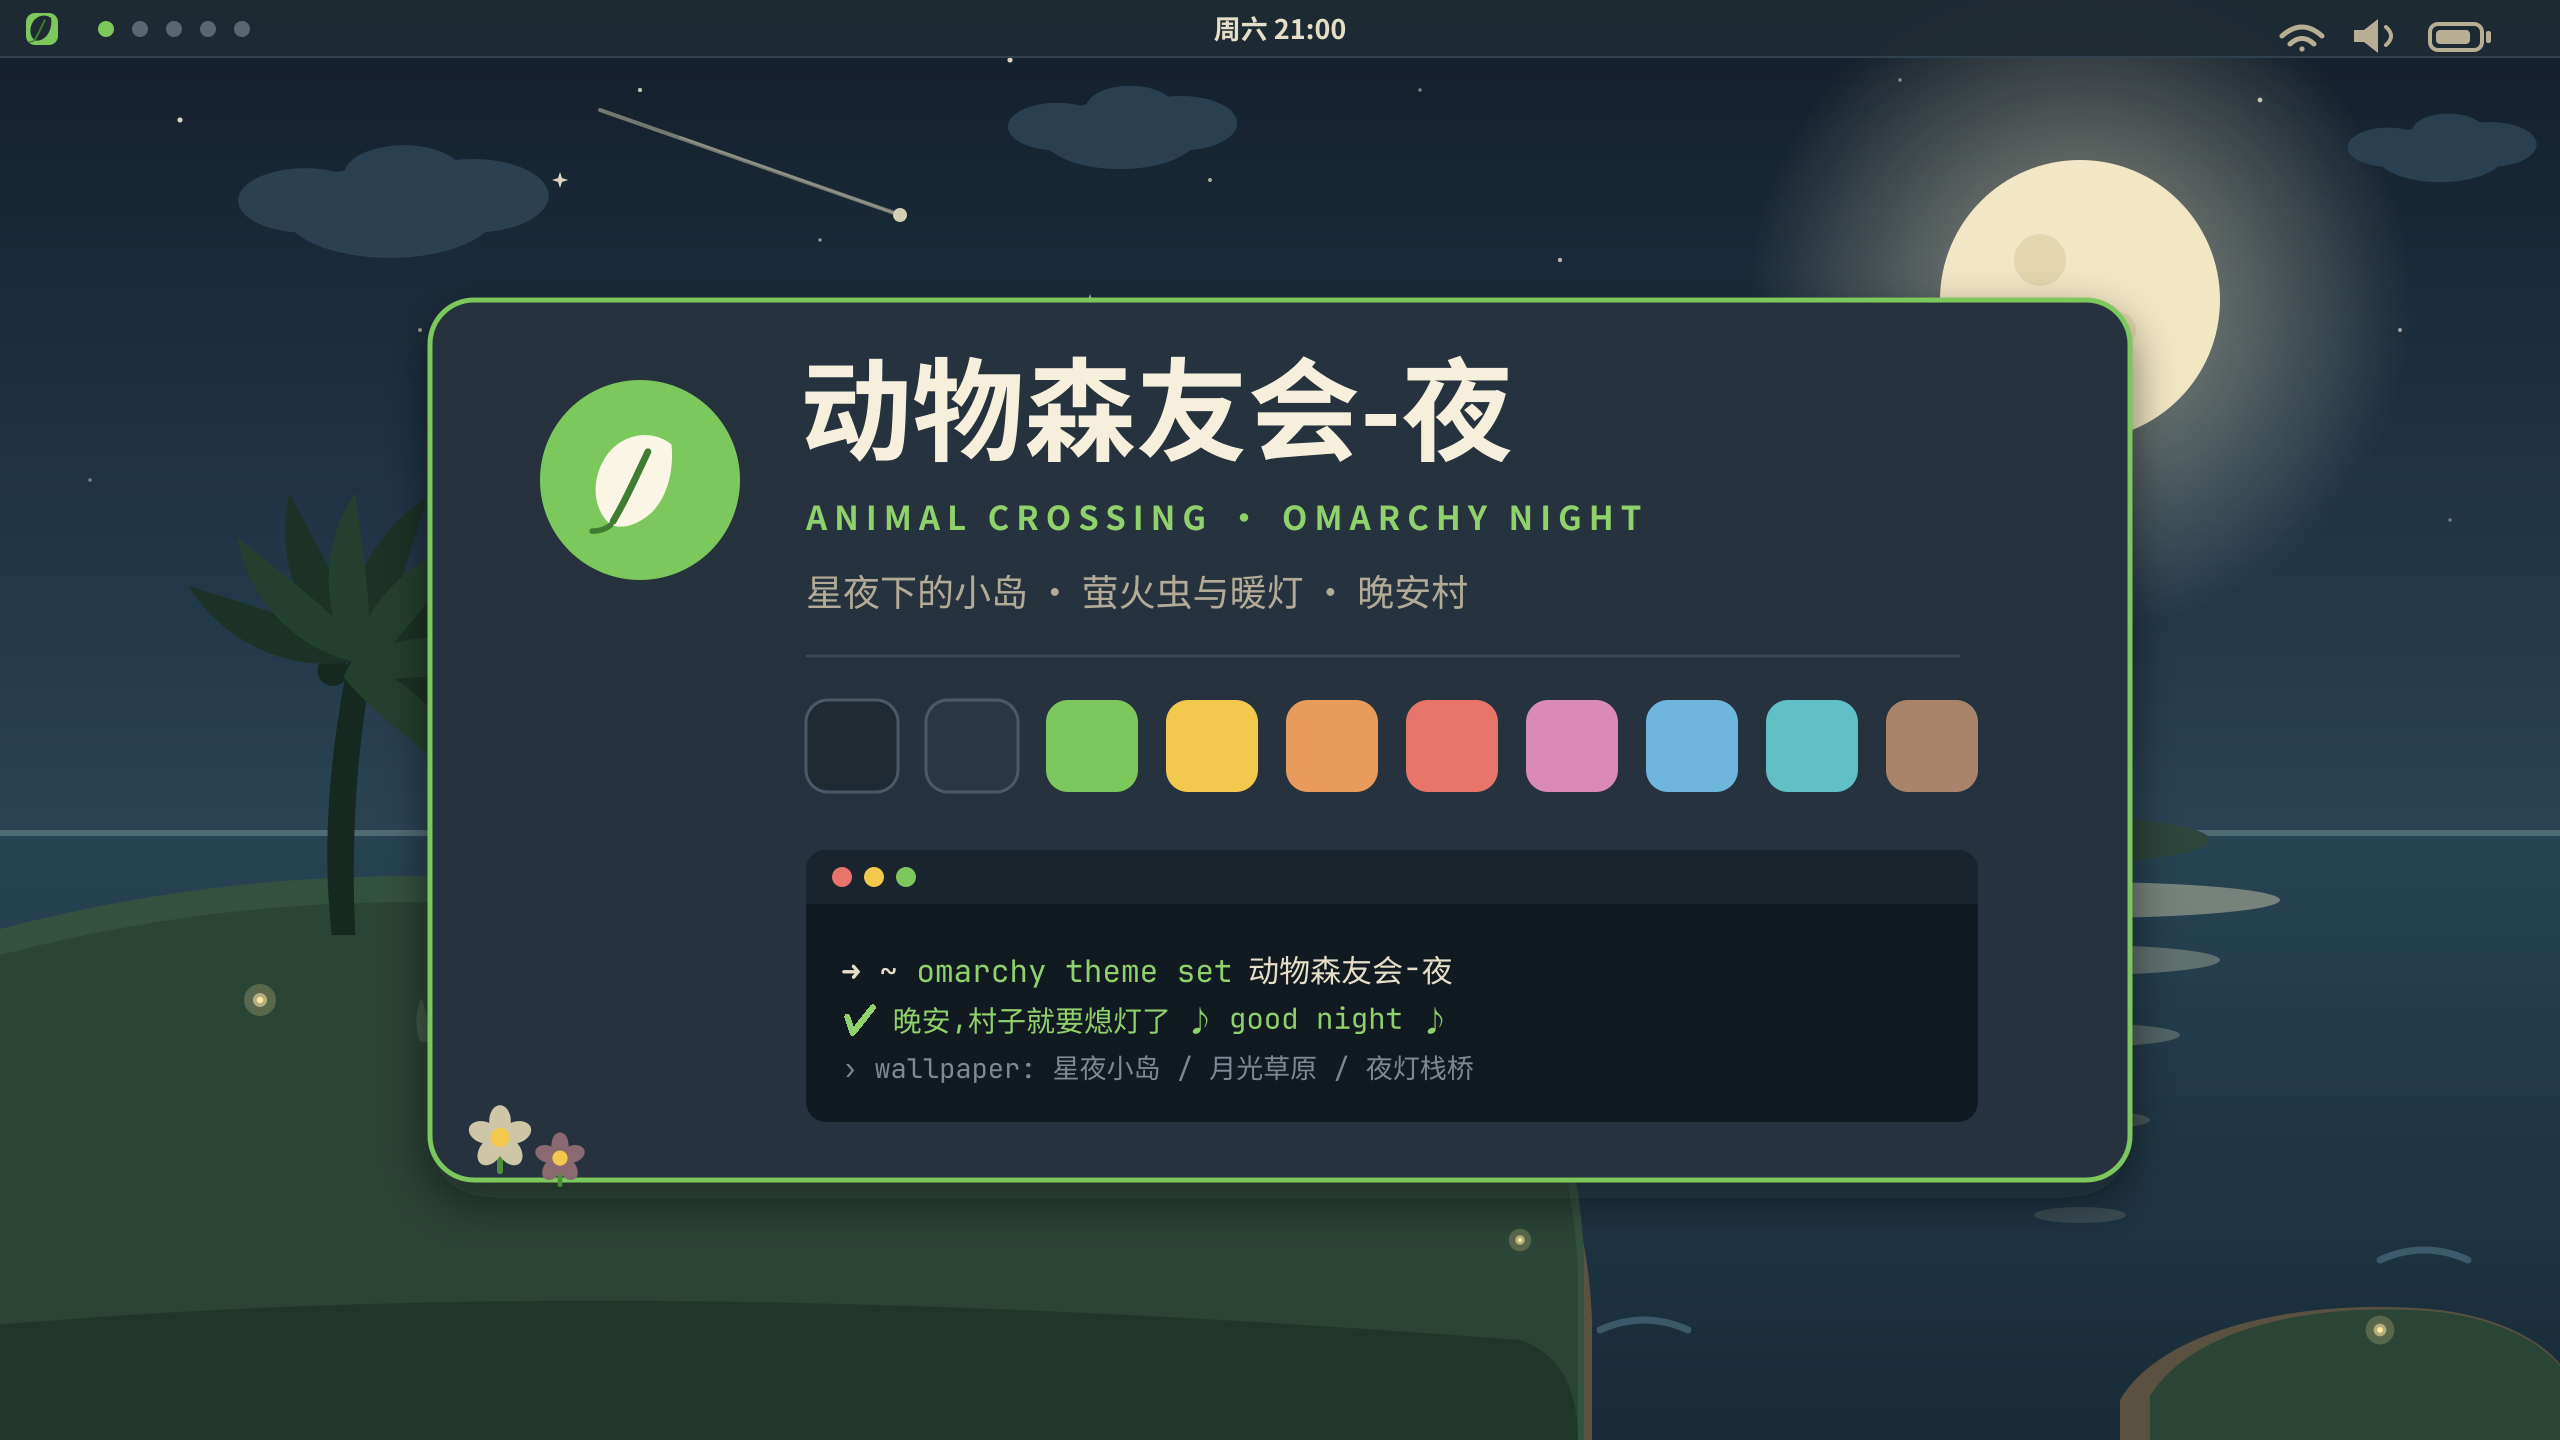
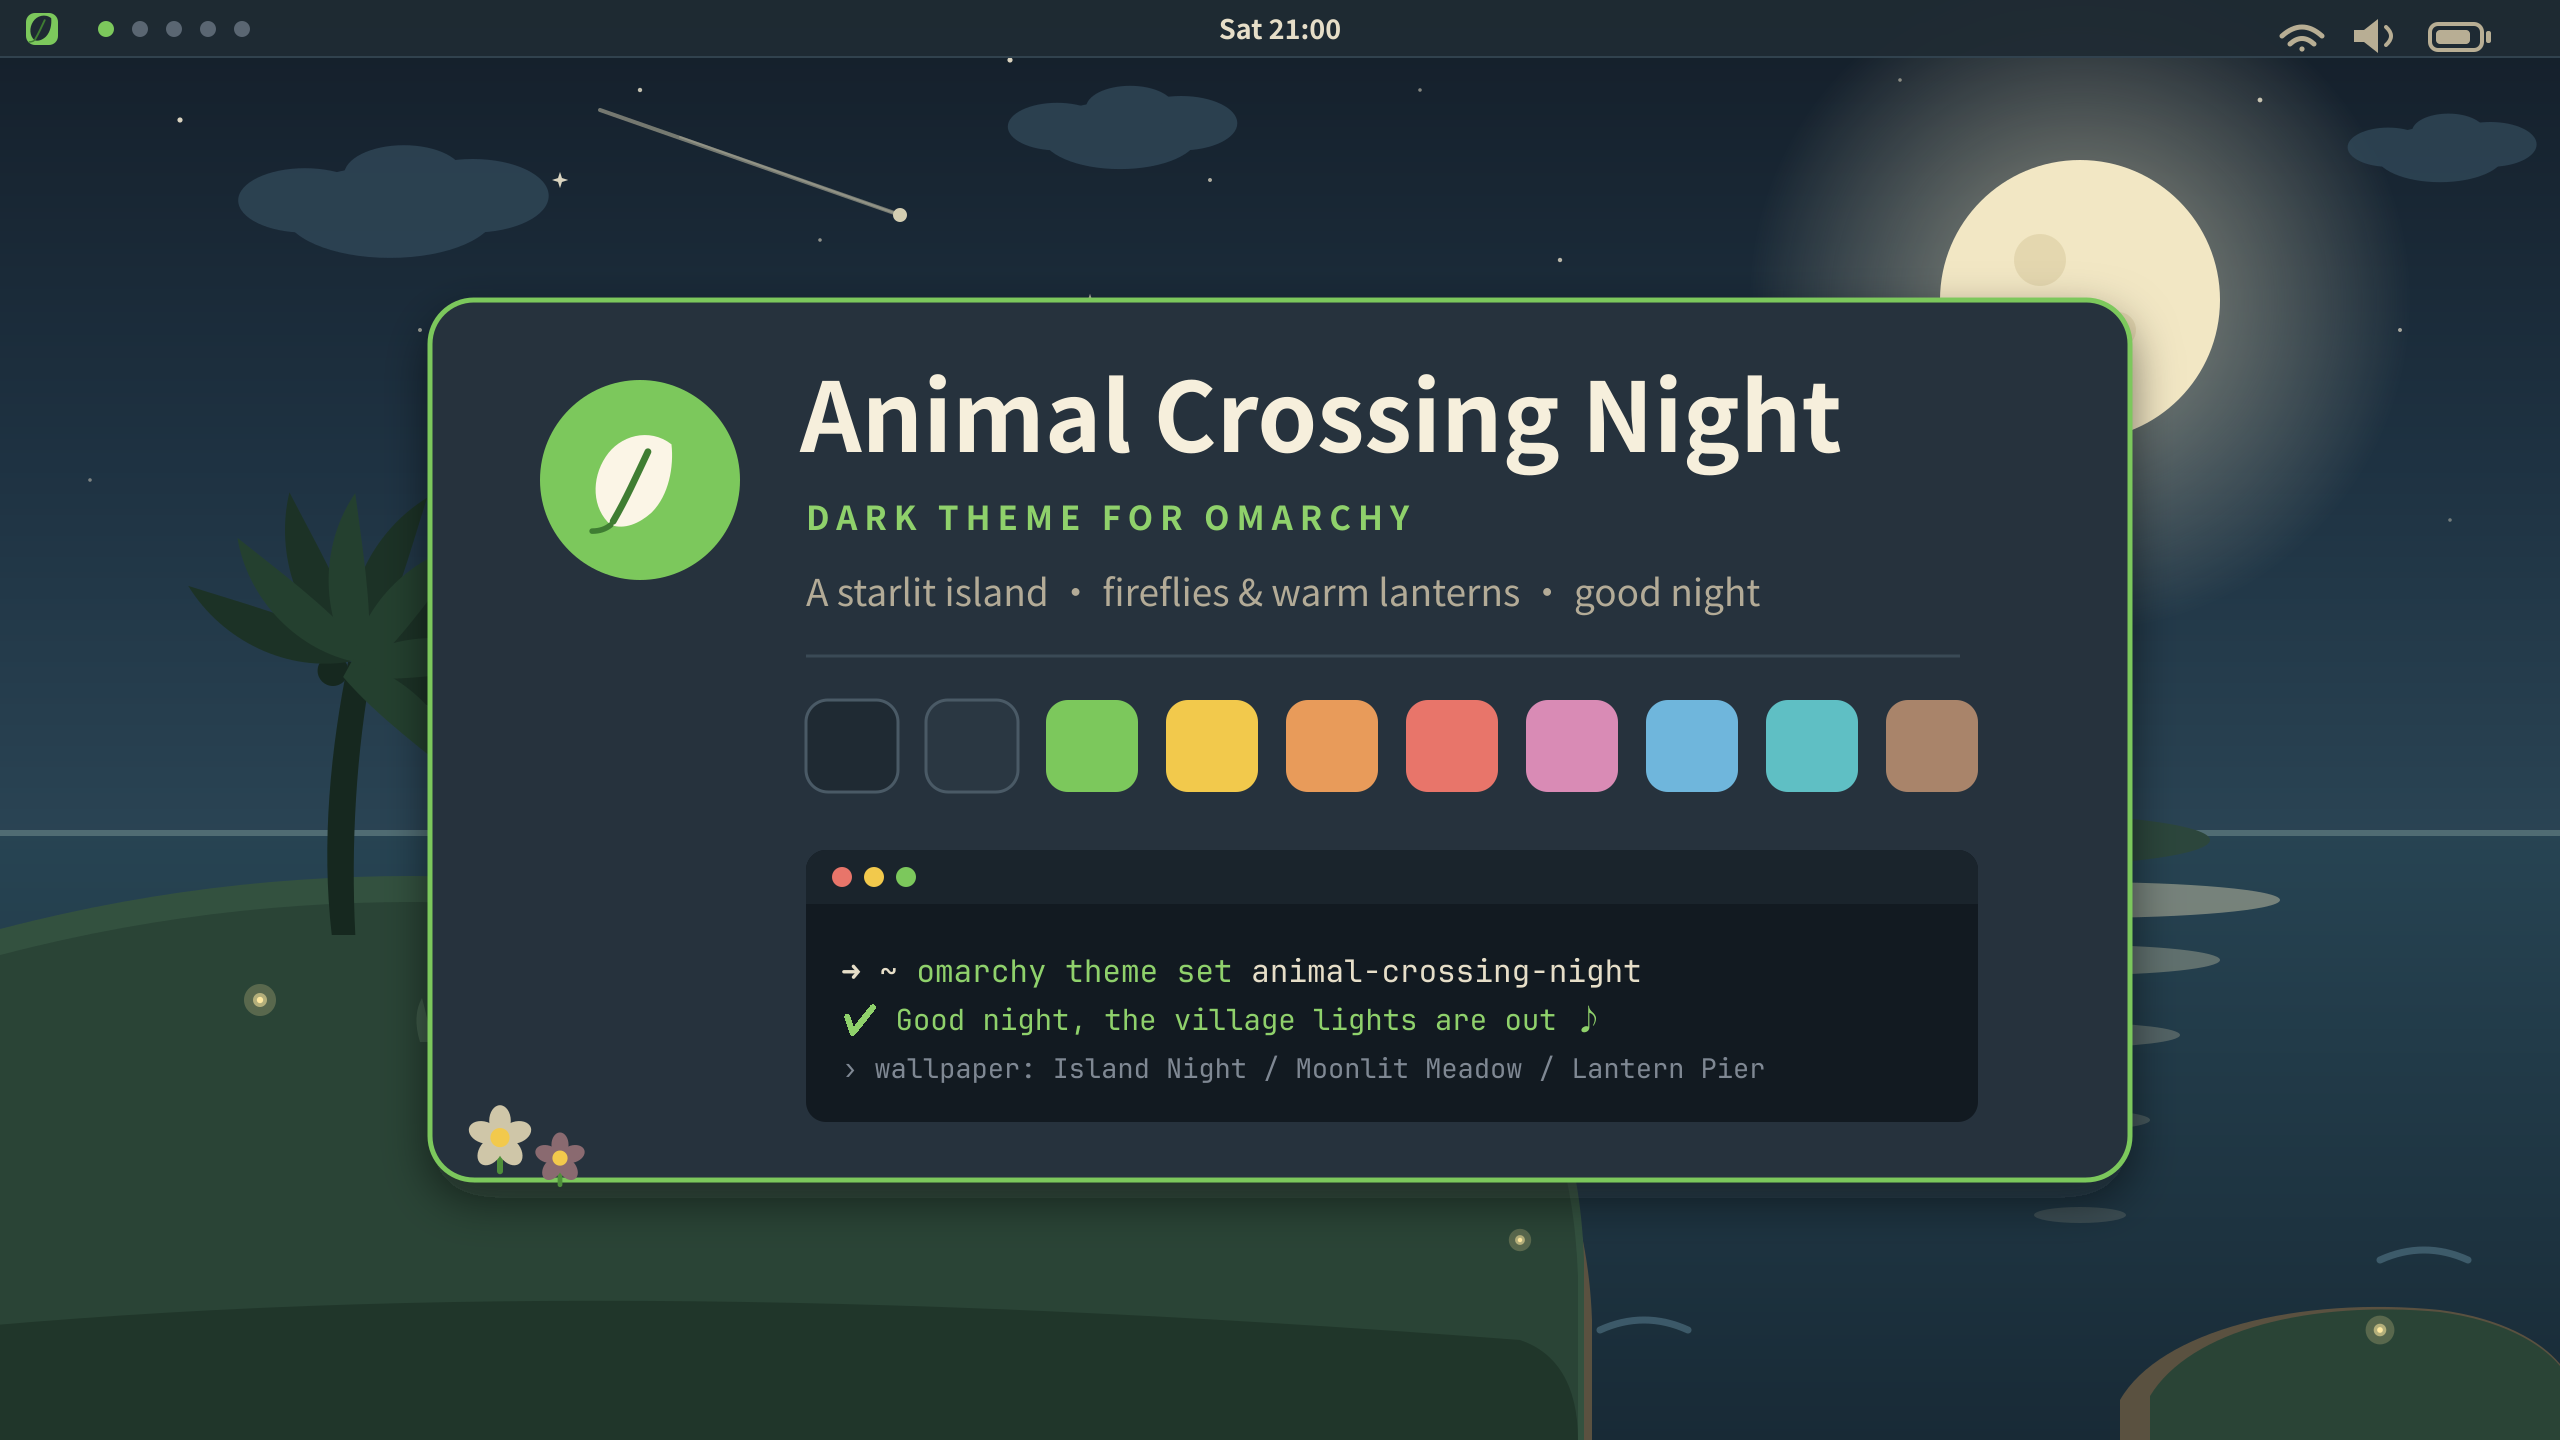
English-first README (zh-CN moved to README.zh-CN.md), English theme names & preview art

diff --git a/README.md b/README.md
@@ -1,79 +1,81 @@
-# 🌙 动物森友会-夜 · Animal Crossing Night for Omarchy
+# 🌙 Animal Crossing Night for Omarchy
 
-[**动物森友会**（白天版）](https://github.com/junbaor/omarchy-animal-crossing-theme)的夜间姊妹主题：月光下的深蓝小岛、萤火虫与栈桥暖灯。慢一点也没关系，晚安村。
+The night-time sister theme of [**Animal Crossing for Omarchy**](https://github.com/junbaor/omarchy-animal-crossing-theme): a moonlit island in deep navy, with fireflies and warm lanterns on the pier. Good night, village.
 
-![主题预览](preview.png)
+Language: **English** · [简体中文](README.zh-CN.md)
 
-## 壁纸
+![Theme preview](preview.png)
 
-| 星夜小岛 | 月光草原 | 夜灯栈桥 |
+## Wallpapers
+
+| Island Night | Moonlit Meadow | Lantern Pier |
 |:---:|:---:|:---:|
-| ![星夜小岛](backgrounds/1-island-night.png) | ![月光草原](backgrounds/2-meadow-night.png) | ![夜灯栈桥](backgrounds/3-pier-night.png) |
+| ![Island Night](backgrounds/1-island-night.png) | ![Moonlit Meadow](backgrounds/2-meadow-night.png) | ![Lantern Pier](backgrounds/3-pier-night.png) |
 
-切换壁纸：`omarchy theme bg next`
+Cycle them with `omarchy theme bg next`.
 
-## 安装
+## Install
 
 ```bash
 omarchy theme install https://github.com/junbaor/omarchy-animal-crossing-night-theme
+omarchy theme set animal-crossing-night
 ```
 
-安装后主题名为 `animal-crossing-night`。想要中文主题名的话：
+## Palette
+
+| Role | Hex | Note |
+|---|---|---|
+| Background | `#1F2A33` | Moonlit navy |
+| Accent | `#7CC85C` | Firefly leaf green |
+| Foreground | `#E6DEC8` | Moonbeam cream |
+| Yellow | `#F2C94C` | Lantern gold (🔔) |
+| Blue | `#6FB6DC` | Night sea |
+| Red | `#E8756A` | Coral |
+| Magenta | `#D98BB5` | Petal pink |
+| Cyan | `#5FBFC4` | Firefly teal |
+| Brown | `#A9846A` | Night timber |
+
+Full palette in [colors.toml](colors.toml). Foreground colors are calibrated to WCAG contrast (≥ 4.5:1).
+
+## Day & night
+
+- ☀ Day: [omarchy-animal-crossing-theme](https://github.com/junbaor/omarchy-animal-crossing-theme)
+
+Use the cream island by day and the starlit island by night — `omarchy theme switcher` to flip.
+
+## Customization
+
+1. Edit `~/.config/omarchy/themes/animal-crossing-night/colors.toml`
+2. Run `omarchy theme refresh`
+
+Terminals, Neovim, btop, VS Code, GTK, fcitx5, menus/notifications/lock screen — everything is generated from `colors.toml` automatically.
+
+## Boot splash
+
+Wear the theme at boot too: menu → Style → Unlock, or
 
 ```bash
-mv ~/.config/omarchy/themes/animal-crossing-night ~/.config/omarchy/themes/动物森友会-夜
-omarchy theme set 动物森友会-夜
+sudo omarchy-plymouth-set-by-theme animal-crossing-night
 ```
 
-## 配色
-
-| 角色 | 色值 | 说明 |
-|---|---|---|
-| 背景 | `#1F2A33` | 月夜深蓝 |
-| 强调 | `#7CC85C` | 萤光叶绿 |
-| 前景 | `#E6DEC8` | 月光米 |
-| 黄 | `#F2C94C` | 暖灯金（路灯/铃铛 🔔） |
-| 蓝 | `#6FB6DC` | 夜海蓝 |
-| 红 | `#E8756A` | 珊瑚红 |
-| 紫 | `#D98BB5` | 花瓣紫 |
-| 青 | `#5FBFC4` | 萤火青 |
-| 棕 | `#A9846A` | 夜木棕 |
-
-完整配色见 [colors.toml](colors.toml)，所有前景色按 WCAG 对比度（≥ 4.5:1）校准过。
-
-## 配套主题
-
-- ☀ 白天版：[omarchy-animal-crossing-theme](https://github.com/junbaor/omarchy-animal-crossing-theme)
-
-白天用奶油色小岛，晚上切到星夜萤火，`omarchy theme switcher` 一键换。
-
-## 自定义
-
-1. 编辑 `~/.config/omarchy/themes/<主题名>/colors.toml`
-2. 运行 `omarchy theme refresh` 重新生成所有应用配置
-
-终端、Neovim、btop、VS Code、GTK、fcitx5、菜单/通知/锁屏等配置都会从 `colors.toml` 自动生成。
-
-## 文件结构
+## Files
 
 ```
-├── colors.toml        # 核心配色（其余配置由 Omarchy 模板生成）
-├── backgrounds/       # 三张 2560×1440 原创夜景壁纸
-├── sources/           # 壁纸的 SVG 源文件，欢迎改色再创作
-├── preview.png        # 主题选择器预览图
-├── icons.theme        # 图标包（Yaru-olive-dark）
-├── keyboard.rgb       # 键盘背光颜色
-├── unlock.png         # Plymouth 开机画面 logo（萤光绿）
-└── preview-unlock.png # 开机画面预览
+├── colors.toml        # core palette (everything else is generated from it)
+├── backgrounds/       # three original 2560×1440 night wallpapers
+├── sources/           # SVG sources of the wallpapers — remix welcome
+├── preview.png        # theme picker preview
+├── icons.theme        # icon pack (Yaru-olive-dark)
+├── keyboard.rgb       # keyboard backlight color
+├── unlock.png         # Plymouth boot logo (firefly green)
+└── preview-unlock.png # boot splash preview
 ```
 
-想让开机画面也变成星夜：菜单 → 样式 → Unlock，或运行
-`sudo omarchy-plymouth-set-by-theme animal-crossing-night`
+## Related
 
-## 相关链接
+- [Omarchy](https://omarchy.org/)
 
-- [Omarchy](https://omarchy.org/) · [主题文档](https://github.com/basecamp/omarchy)
-- 壁纸为原创矢量插画（SVG 源码在 `sources/`），可自由修改使用
+All wallpapers are original vector art (SVG sources in `sources/`), free to modify and reuse.
 
 ## License
 

diff --git a/README.zh-CN.md b/README.zh-CN.md
@@ -1,0 +1,84 @@
+# 🌙 动物森友会-夜 · Animal Crossing Night for Omarchy
+
+[**动物森友会（白天版）**](https://github.com/junbaor/omarchy-animal-crossing-theme)的夜间姊妹主题：月光下的深蓝小岛、萤火虫与栈桥暖灯。晚安，村子。
+
+语言 / Language: [English](README.md) · **简体中文**
+
+![主题预览](preview.png)
+
+## 壁纸
+
+| 星夜小岛 | 月光草原 | 夜灯栈桥 |
+|:---:|:---:|:---:|
+| ![星夜小岛](backgrounds/1-island-night.png) | ![月光草原](backgrounds/2-meadow-night.png) | ![夜灯栈桥](backgrounds/3-pier-night.png) |
+
+切换壁纸：`omarchy theme bg next`
+
+## 安装
+
+```bash
+omarchy theme install https://github.com/junbaor/omarchy-animal-crossing-night-theme
+omarchy theme set animal-crossing-night
+```
+
+安装后的主题名是 `animal-crossing-night`。
+
+## 配色
+
+| 角色 | 色值 | 说明 |
+|---|---|---|
+| 背景 | `#1F2A33` | 月夜深蓝 |
+| 强调 | `#7CC85C` | 萤光叶绿 |
+| 前景 | `#E6DEC8` | 月光米 |
+| 黄 | `#F2C94C` | 暖灯金（🔔） |
+| 蓝 | `#6FB6DC` | 夜海蓝 |
+| 红 | `#E8756A` | 珊瑚红 |
+| 紫 | `#D98BB5` | 花瓣紫 |
+| 青 | `#5FBFC4` | 萤火青 |
+| 棕 | `#A9846A` | 夜木棕 |
+
+完整配色见 [colors.toml](colors.toml)，所有前景色按 WCAG 对比度（≥ 4.5:1）校准。
+
+## 日夜搭配
+
+- ☀ 白天版：[omarchy-animal-crossing-theme](https://github.com/junbaor/omarchy-animal-crossing-theme)
+
+白天用奶油色小岛，晚上切到星夜萤火，`omarchy theme switcher` 一键换。
+
+## 自定义
+
+1. 编辑 `~/.config/omarchy/themes/animal-crossing-night/colors.toml`
+2. 运行 `omarchy theme refresh`
+
+终端、Neovim、btop、VS Code、GTK、fcitx5、菜单/通知/锁屏等配置都会从 `colors.toml` 自动生成。
+
+## 开机画面
+
+让 Plymouth 开机画面也变成星夜：菜单 → 样式 → Unlock，或
+
+```bash
+sudo omarchy-plymouth-set-by-theme animal-crossing-night
+```
+
+## 文件结构
+
+```
+├── colors.toml        # 核心配色（其余配置由 Omarchy 模板生成）
+├── backgrounds/       # 三张 2560×1440 原创夜景壁纸
+├── sources/           # 壁纸的 SVG 源文件，欢迎改色再创作
+├── preview.png        # 主题选择器预览图
+├── icons.theme        # 图标包（Yaru-olive-dark）
+├── keyboard.rgb       # 键盘背光颜色
+├── unlock.png         # Plymouth 开机画面 logo（萤光绿）
+└── preview-unlock.png # 开机画面预览
+```
+
+## 相关链接
+
+- [Omarchy](https://omarchy.org/)
+
+壁纸为原创矢量插画（SVG 源码在 `sources/`），可自由修改使用。
+
+## License
+
+[MIT](LICENSE)
